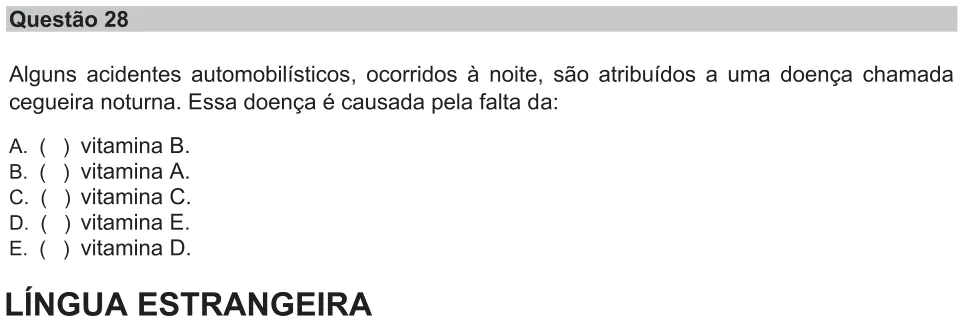
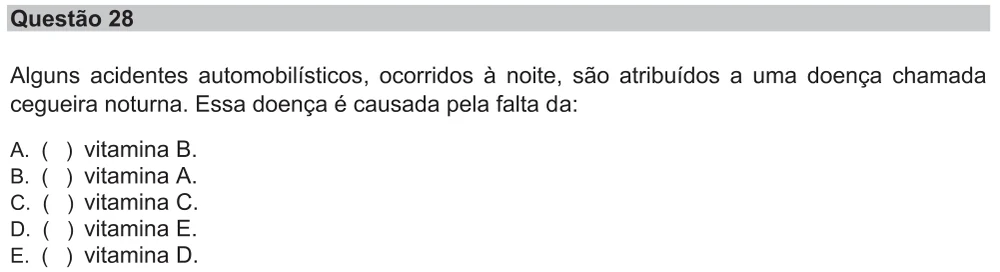
Prints refeitos do PDF oficial: UVA 2024.1 q46, Unitins 2024/2 q29, UDESC 2024.1 q28
UVA q46 (P8a7424bc): comando e alternativas que faltavam. Unitins q29 (P2d41428f):
equação inteira (produtos depois da seta); a transcrição saiu porque tem fórmula (princípio 1).
UDESC q28 (P039ae129): sem o título LÍNGUA ESTRANGEIRA; texto guardado corrigido.
P8a7424bc e P2d41428f voltam à fila de Química.

Claude-Session: https://claude.ai/code/session_01PveEKabuyZnqVN65W5FfEc

Changed region(s): [[0.0, 0.2059, 0.9969, 1.0], [0.0, 0.0294, 0.9969, 0.1176], [0.0, 0.4412, 0.0312, 0.4706]]

diff --git a/docs/provas/prints-refeitos.md b/docs/provas/prints-refeitos.md
@@ -168,3 +168,6 @@ Provas da varredura de hífens (questões alteradas / trechos): acafe-2022-inver
 | 2026-11-13 | fatec-2026-2 | 58 | P0c8c68ab | 1000x473 | 1000x573 | 22: 24,24,557,212; 22: 24,219,557,336 |
 | 2026-11-13 | fema-2020 | 19 | P31dcd8ee | 1000x241 | 1000x725 | 6: 24,612,573,780; 7: 24,26,573,120; 7: 24,135,573,270 |
 | 2026-11-13 | ufsm-2025 | 48 | Pbddde95d | 1000x1448 | 1000x1346 | 5: 24,50,574,790 |
+| 2026-11-13 | uva-2024-1 | 46 | P8a7424bc | 1000x179 | 1000x370 | 13: 52,605,548,788 |
+| 2026-11-13 | unitins-2024-2 | 29 | P2d41428f | 1000x348 | 1000x340 | 14: 30,399,565,580 |
+| 2026-11-13 | udesc-2024-1 | 28 | P039ae129 | 963x322 | 1000x272 | 15: 66,79,530,205 |
